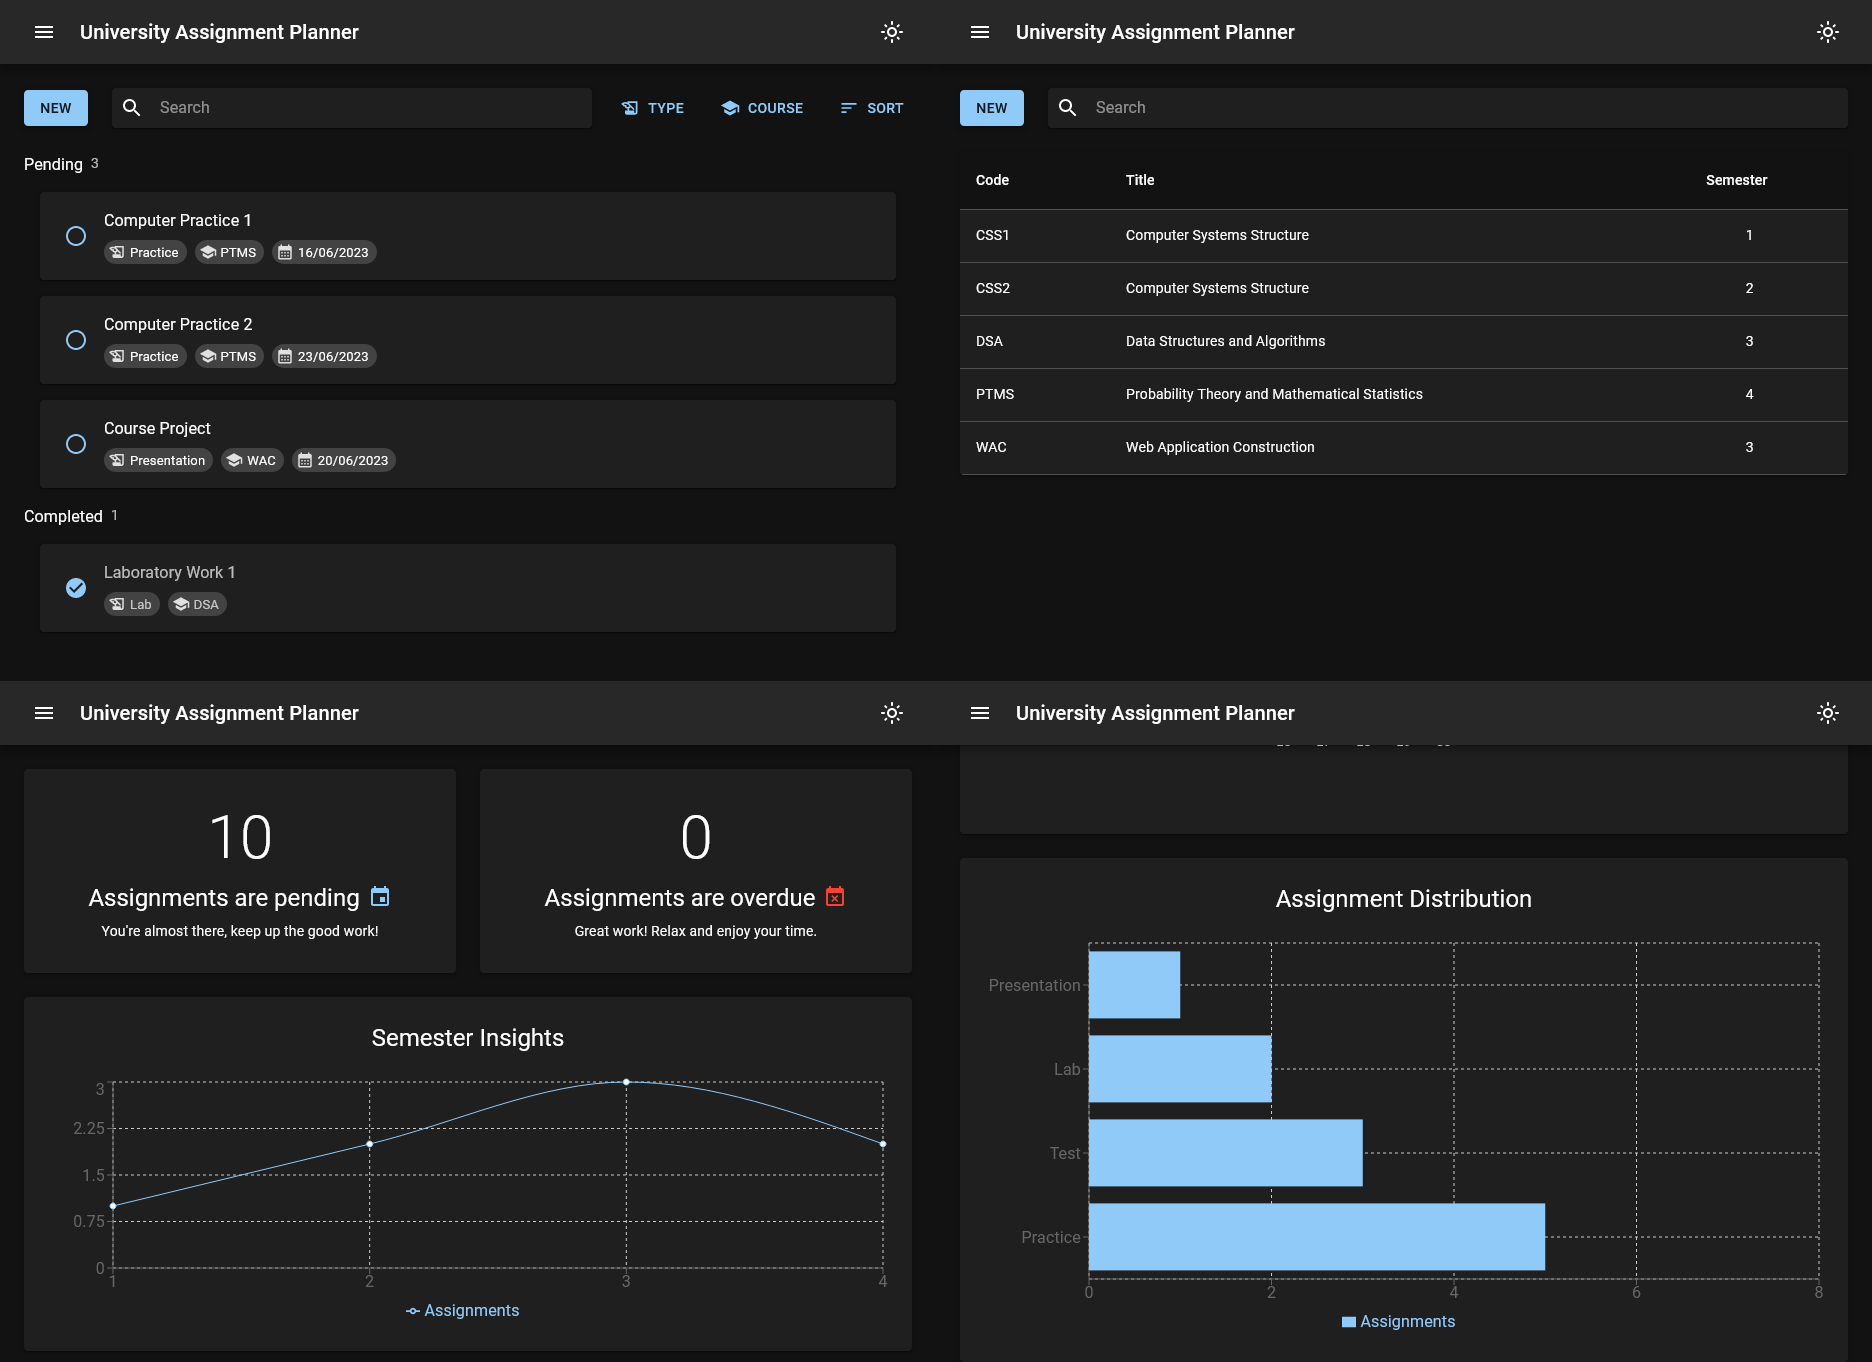
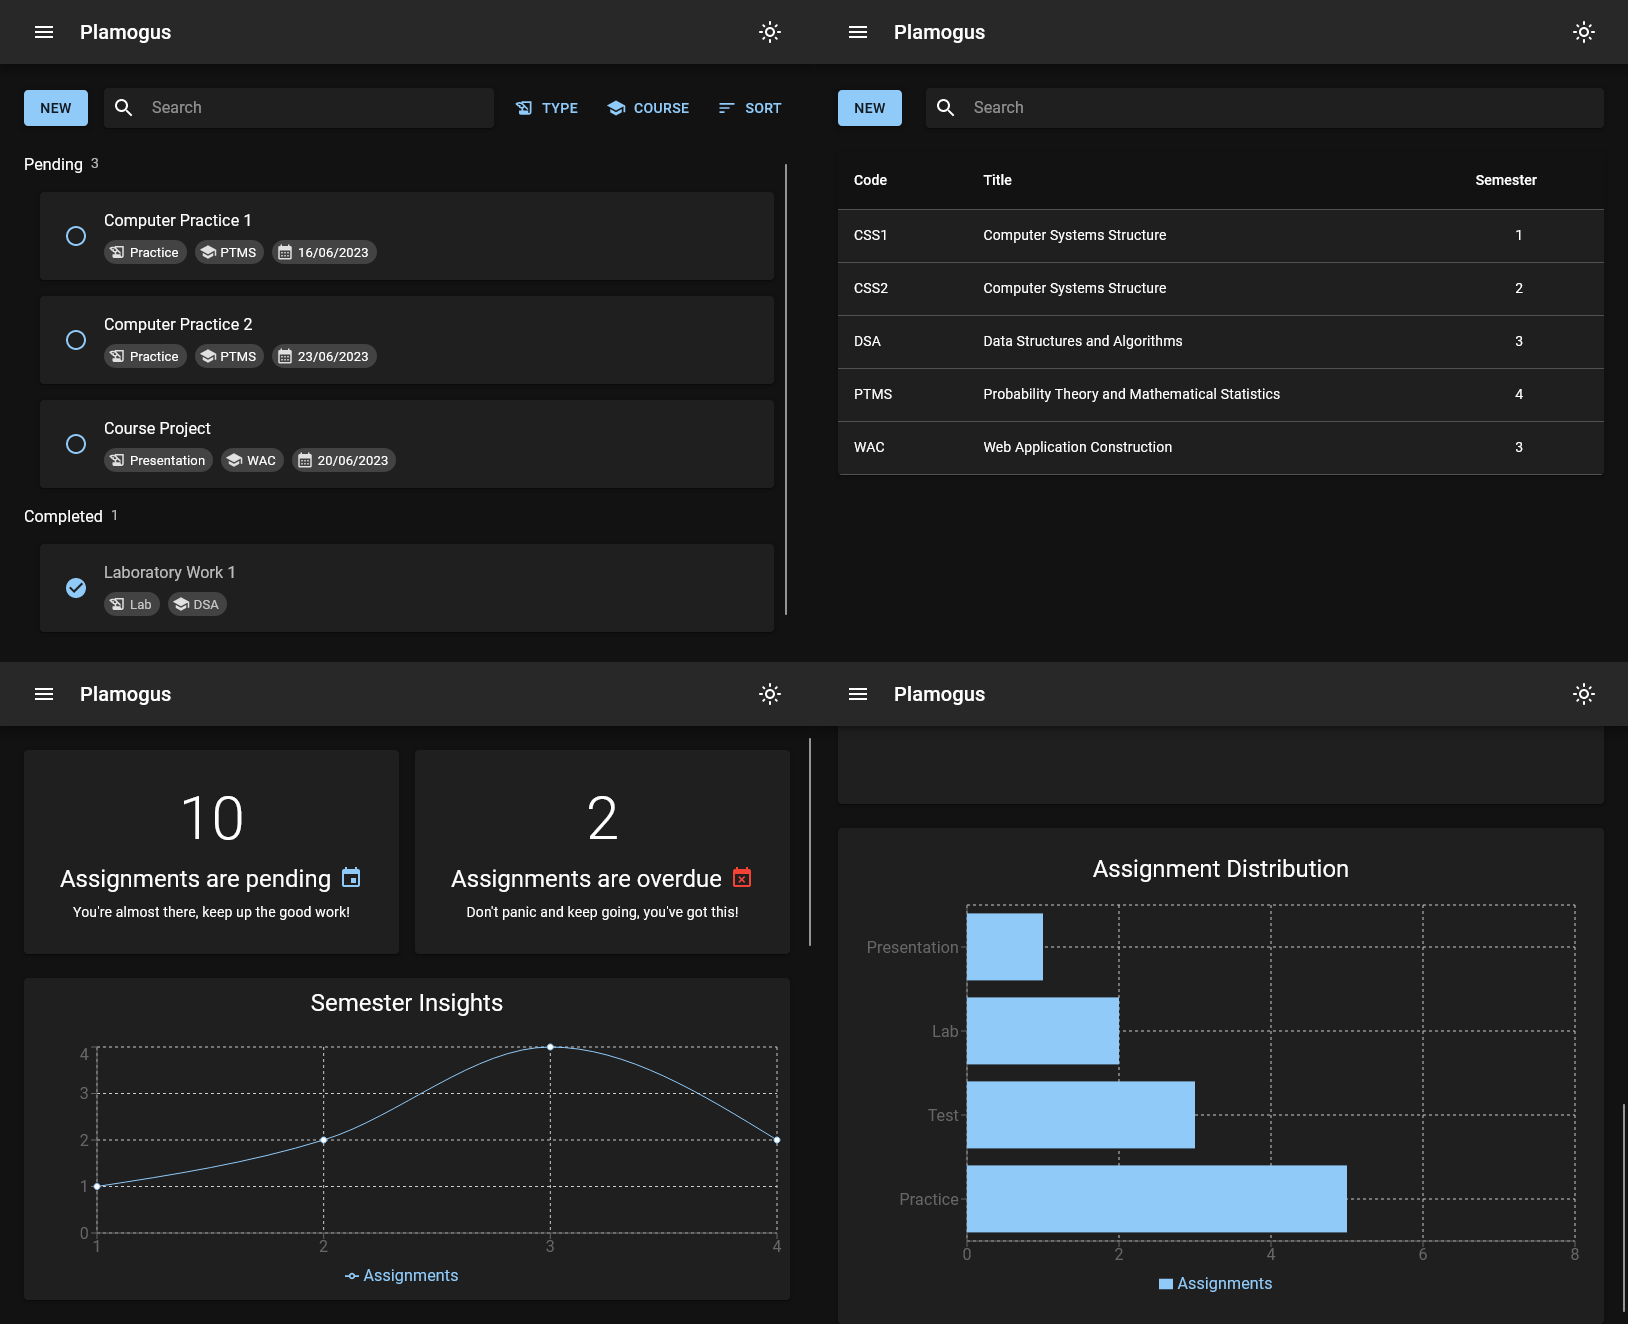
Update README

diff --git a/README.md b/README.md
@@ -1,4 +1,4 @@
-# University Assignment Planner
+# Plamogus
 
 A small and simple university assignment planner for students! 🎓
 
@@ -11,76 +11,83 @@ A small and simple university assignment planner for students! 🎓
 - RESTful API and PostgreSQL database.
 - [Spring Boot][spring-boot] backend with [JPA][jpa] and [Lombok][lombok].
 - [React][react] frontend for web browsers with [React Router][react-router].
-- UI and UX based on Google's [Material Design][material] ([MUI][mui]).
+- Responsive UI and UX based on Google's [Material Design][material] ([MUI][mui]).
 - Form management and validation using [Formik][formik] and [Yup][yup].
 - Querying using [React Query][react-query] and [Axios][axios].
 - Dashboard with [Recharts][recharts] components.
 - Calendars and date pickers, with  [day.js][dayjs] time operations.
 - Support for dark and light themes.
 
-## Building and Running
+## Building
 
-If you wish to build and run this project locally, you will need to start up the database, backend, and frontend of the
-application yourself. There are several options for achieving this, which are listed below.
+To run this project locally, you will need to start up the database, backend, and frontend of the application.
 
-### 1. Starting the Database
+### Prerequisites
 
-This project uses PostgreSQL database management system. For local building and development, you have two choices for
-starting it up: using Docker or by manually installing and running the DBMS on your machine.
+There are several options for building this project, but ultimately you will most likely need the following:
+
+- [Docker][1] or a local installation of [PostgreSQL][2]
+- Java 17 SDK
+- [npm][3]
+
+You may perform all of the steps using a terminal, or use an IDE such as [IntelliJ IDEA][4], which works for both Spring
+and React projects. If you don't have Docker installed, you may wish to consider using [Docker Desktop][5], which comes
+with all necessary software and a graphical user interface.
+
+### Starting the Database
+
+This project uses PostgreSQL database management system. To run the application, you can either start a database server
+using Docker or by manually running the DBMS on your machine.
 
 #### Using Docker (Recommended)
 
-If you have [Docker][1] installed, you may simply run the official [`postgres`][2] Docker image in a container. If you
-do not have Docker on your system, consider installing [Docker Desktop][3], which provides all necessary software along
-with a graphical user interface.
-
 The simplest way to start the database container is via the provided [`docker-compose.yml`](./server/docker-compose.yml)
-configuration file. This will take care of pulling the necessary image and setting up the environment variables, exposed
-port, etc. Assuming you are in the root of the repository, simply run the following:
+configuration file. Assuming you are in the root of the repository, simply run the following:
 
 ```sh
 cd server
 docker-compose up
 ```
 
-Alternatively, you may run the Docker container manually using the following command:
+This will take care of pulling the necessary image and setting up the environment variables, exposed ports, etc.
+Alternatively, you may explicitly run the equivalent Docker command yourself:
 
 ```sh
 docker run -d \
-  --name uap_db \
-  -e POSTGRES_DB=uap \
-  -e POSTGRES_USER=uap_user \
-  -e POSTGRES_PASSWORD=uap_user \
+  --name plamogus_db \
+  -e POSTGRES_DB=plamogus \
+  -e POSTGRES_USER=plamogus_user \
+  -e POSTGRES_PASSWORD=plamogus_user \
   -p 5432:5432 \
   postgres
 ```
 
 #### Manually
 
-If for some reason you do not want to use Docker, you may [download the PostgreSQL package][4] and start up the database
-server yourself. Keep in mind that the application will try to access the database with the following settings
-(applicable to local environments _only_):
+Create a new database server using the PostgreSQL package and configure it with the following settings (applicable to
+local environments only):
 
-| Setting       | Value         |
-| ------------- | ------------- |
-| Database Name | `uap`         |
-| Username      | `uap_user`    |
-| Password      | `uap_user`    |
-| Host          | `localhost`   |
-| Port          | `5432`        |
+| Setting       | Value           |
+| ------------- | --------------- |
+| Database Name | `plamogus`      |
+| Username      | `plamogus_user` |
+| Password      | `plamogus_user` |
+| Host          | `localhost`     |
+| Port          | `5432`          |
 
-### 2. Starting the Server
+### Starting the Server
 
-Once you have the database up and running, you may build and start the backend of the application. The project is using
-Maven as its build system, but you do not need to have it available on your system - instead, you may use the Maven
-Wrapper provided by the Spring Boot project.
+Before running the server, ensure that the database has started successfully.
 
-#### Using IntelliJ IDEA
+#### Using IntelliJ IDEA (Recommended)
 
-If you are using  [IntelliJ IDEA][5] by JetBrains, simply open the `server` project in the IDE and run it. If you do not
-have a suitable Java 17 SDK, you may [download one directly from the IDE][6] (such as the Amazon Corretto version of
-OpenJDK) and use it within the project. To verify that the server has started correctly, you may try running samples
-from the [`examples`](./server/examples/) folder using [IntelliJ's built-in HTTP client][7].
+Simply open the `server` project in the IDE and run it - IntelliJ will automatically take care of dependencies, etc.
+If you do not have a suitable Java 17 SDK, you may [download one directly from the IDE][6] (such as the Amazon Corretto
+version of OpenJDK).
+
+To verify that the server has started correctly, you may try running samples from the [`examples`](./server/examples/)
+folder using [IntelliJ's built-in HTTP client][7] after selecting the `local` environment profile. Don't forget to
+replace `{id}` with the actual identifiers when making requests!
 
 #### Using Terminal
 
@@ -103,14 +110,10 @@ cd server
 ./mvnw spring-boot:run
 ```
 
-At this point, the backend should be up and listening on port `8080`. You may verify this by making a request to any of
-its endpoints (such as `GET localhost:8080/api/v1/assignments`), which should return an empty response.
+### Starting the Client
 
-### 3. Starting the Client
-
-Lastly, you may build and run the frontend of the application. It is an [`npm`][8]-based project configured using the
-[Create React App][9] tool. Note that you may run the project from IntelliJ IDEA, or start it from the terminal using
-the following commands:
+Before running the client, ensure that the server has started successfully. The frontend may also be started from
+IntellIJ IDEA, or using the following commands in a terminal:
 
 ```sh
 cd client
@@ -140,11 +143,9 @@ At this point, the entire application stack should be up and running. Open up yo
 
 <!-- Build references. -->
 [1]: https://www.docker.com/
-[2]: https://hub.docker.com/_/postgres
-[3]: https://www.docker.com/products/docker-desktop/
-[4]: https://www.postgresql.org/download/
-[5]: https://www.jetbrains.com/idea/
+[2]: https://www.postgresql.org/download/
+[3]: https://www.npmjs.com/
+[4]: https://www.jetbrains.com/idea/
+[5]: https://www.docker.com/products/docker-desktop/
 [6]: https://www.jetbrains.com/help/idea/sdk.html#set-up-jdk
 [7]: https://www.jetbrains.com/help/idea/http-client-in-product-code-editor.html
-[8]: https://www.npmjs.com/
-[9]: https://create-react-app.dev/
